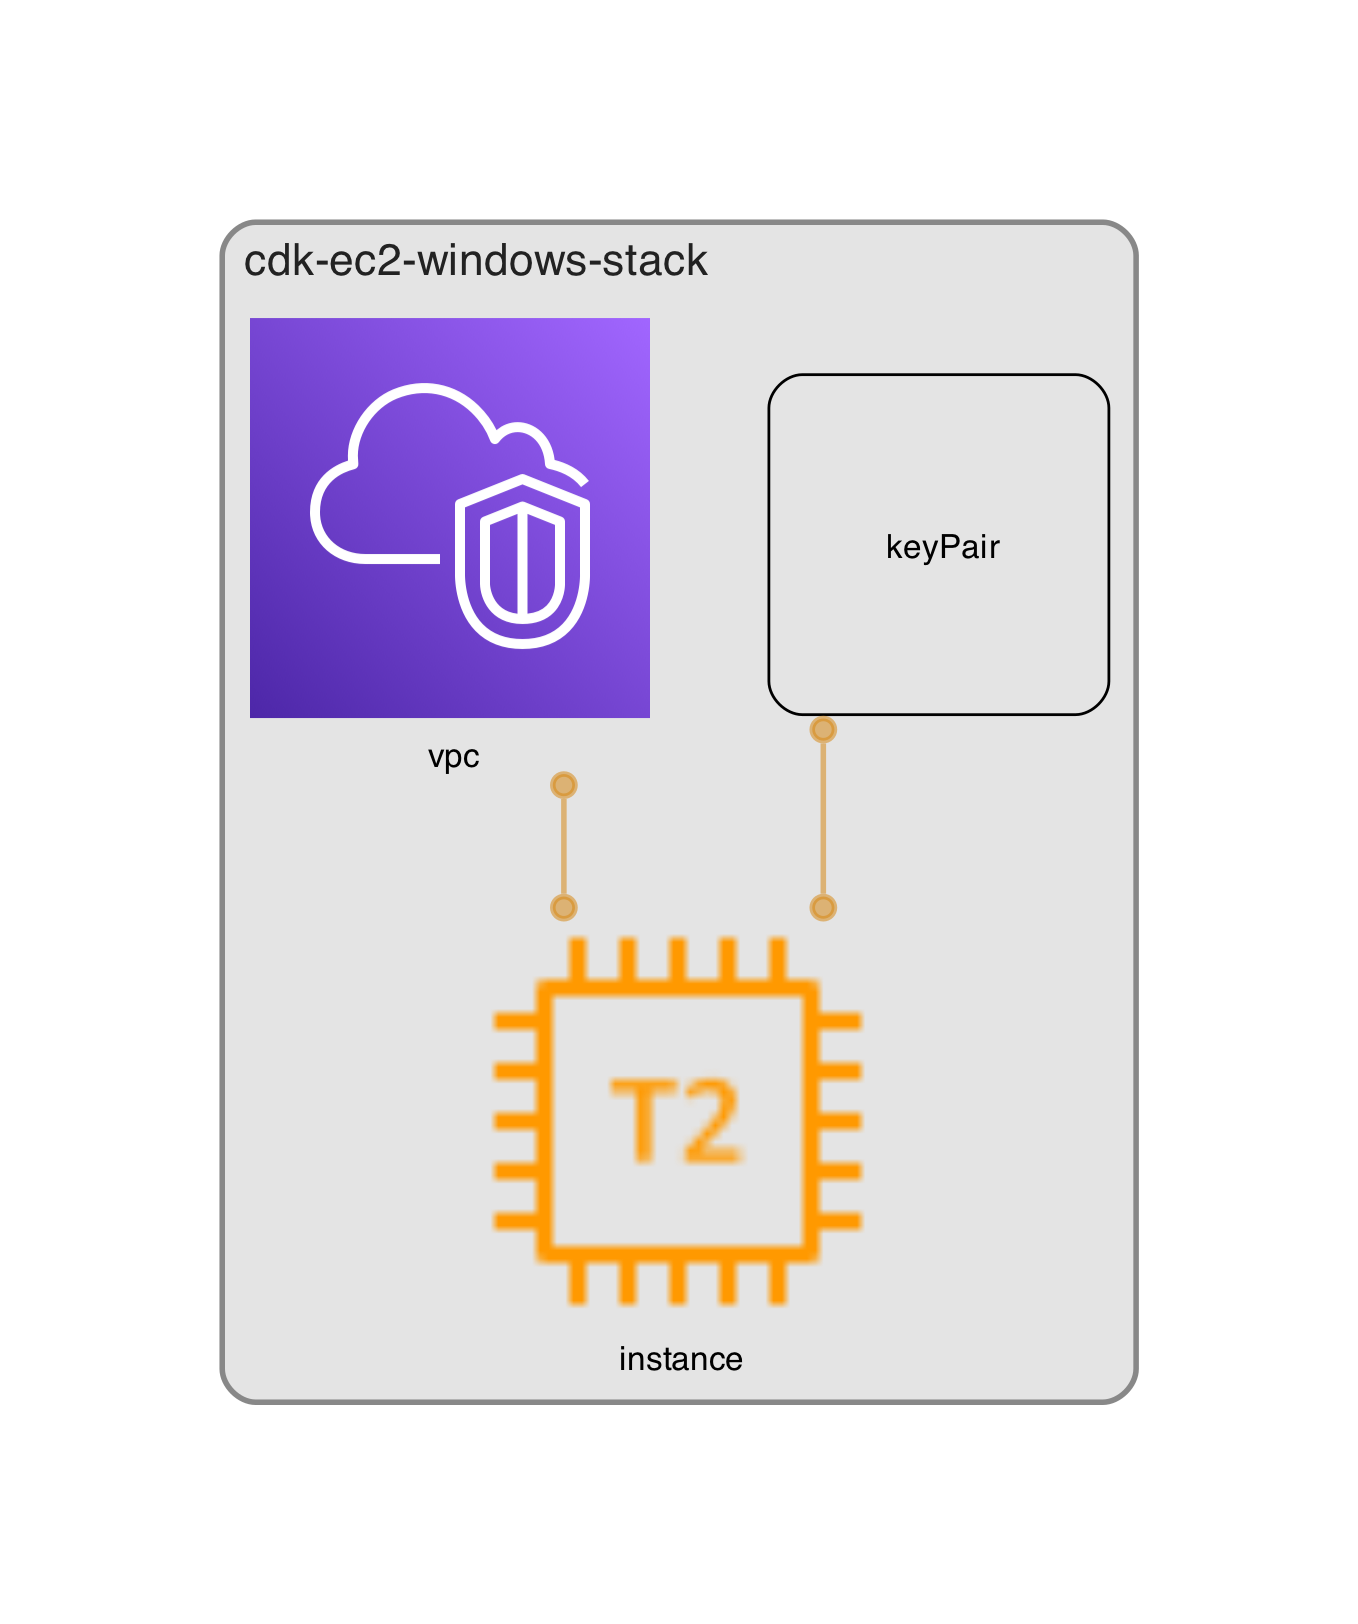
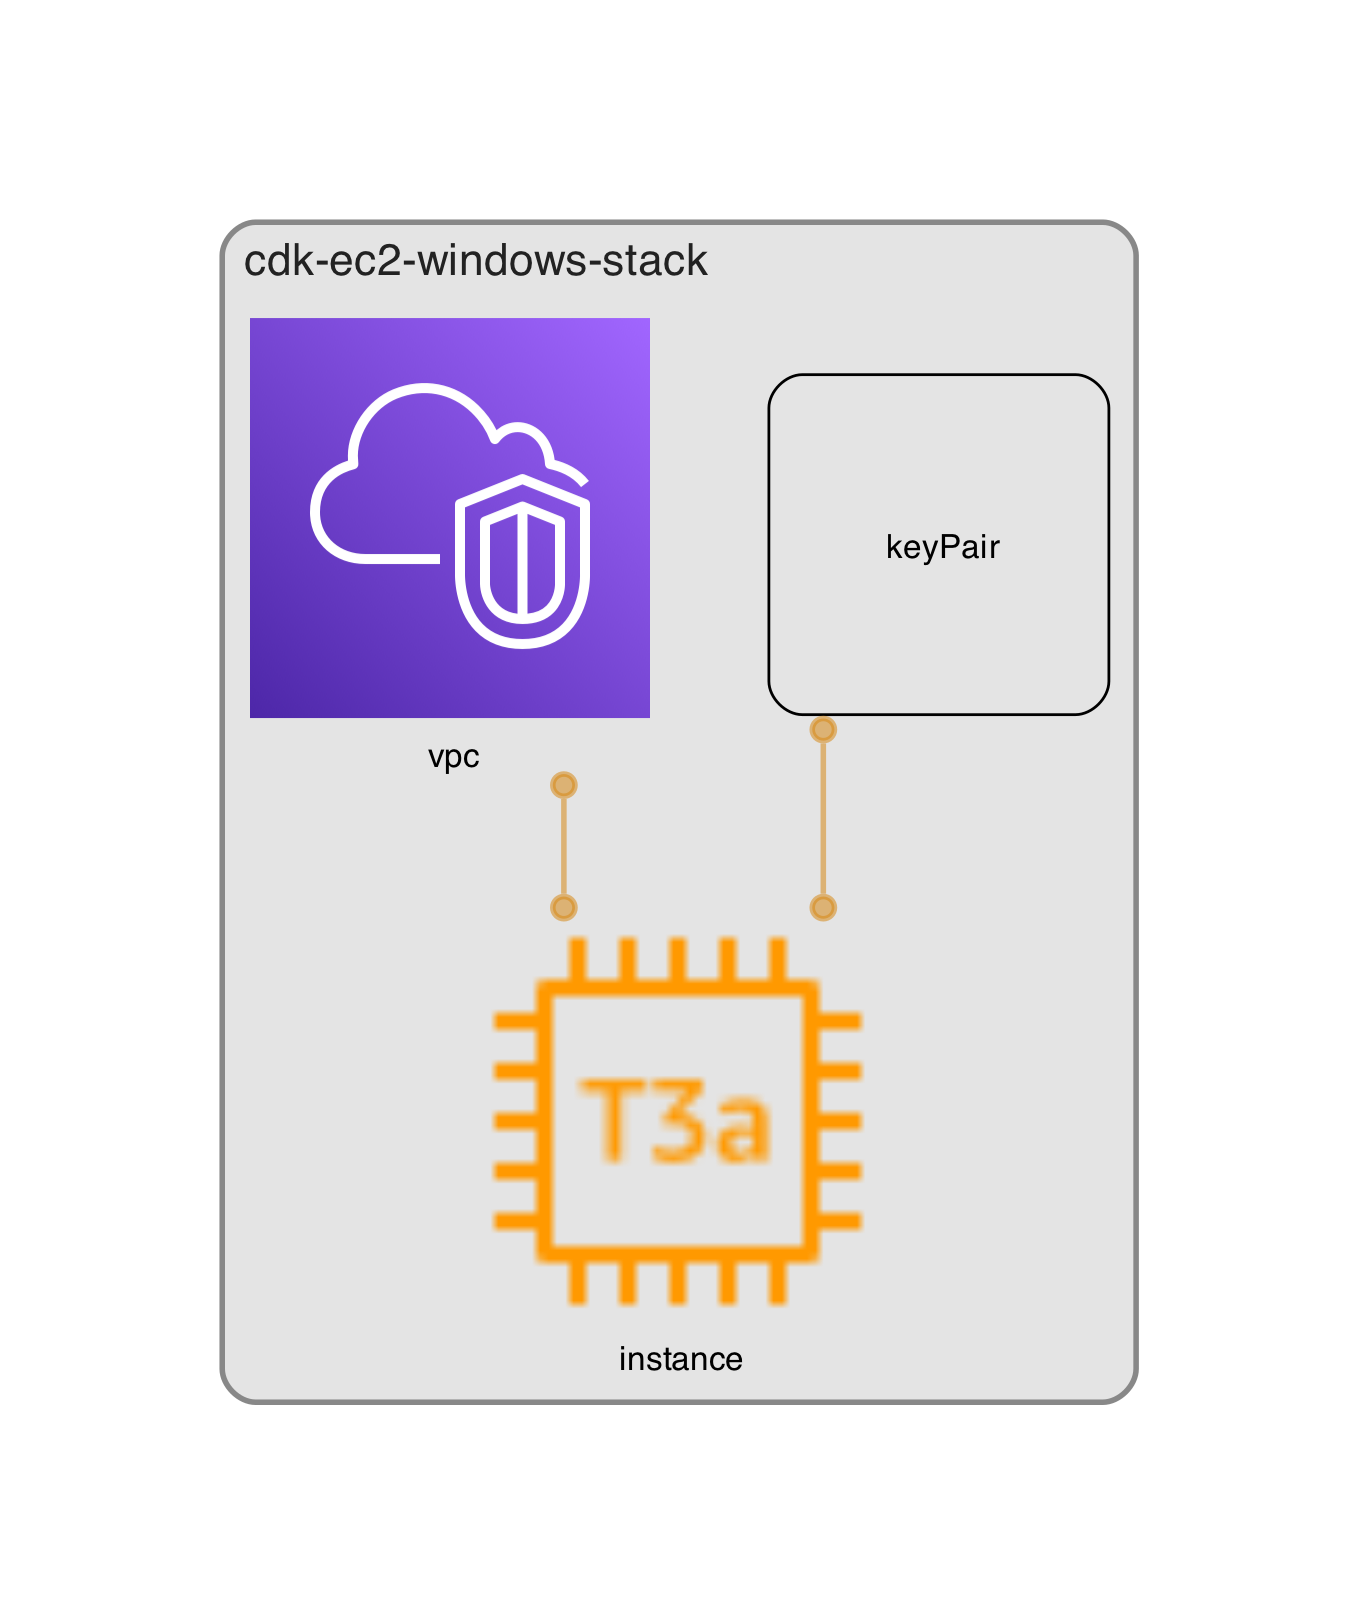
t2.㍃無理

Changed region(s): [[0.433, 0.6466, 0.5876, 0.7389]]

diff --git a/app.py b/app.py
@@ -25,7 +25,8 @@ instance = cdk.aws_ec2.Instance(
     "instance",
     vpc=vpc,
     vpc_subnets=cdk.aws_ec2.SubnetSelection(subnet_type=cdk.aws_ec2.SubnetType.PUBLIC),
-    instance_type=cdk.aws_ec2.InstanceType.of(cdk.aws_ec2.InstanceClass.T2, cdk.aws_ec2.InstanceSize.MICRO),
+    # instance_type=cdk.aws_ec2.InstanceType.of(cdk.aws_ec2.InstanceClass.T2, cdk.aws_ec2.InstanceSize.MICRO),
+    instance_type=cdk.aws_ec2.InstanceType.of(cdk.aws_ec2.InstanceClass.T3A, cdk.aws_ec2.InstanceSize.MEDIUM),
     machine_image=cdk.aws_ec2.WindowsImage(cdk.aws_ec2.WindowsVersion.WINDOWS_SERVER_2022_JAPANESE_FULL_BASE),
     key_pair=key_pair,
     ssm_session_permissions=True,
